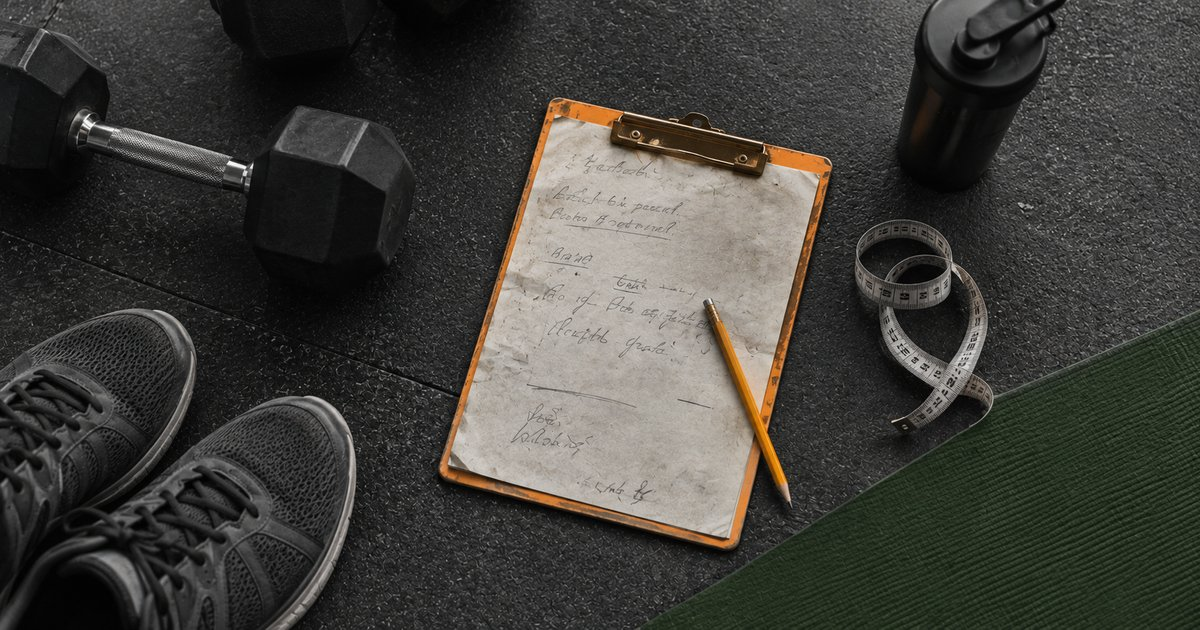
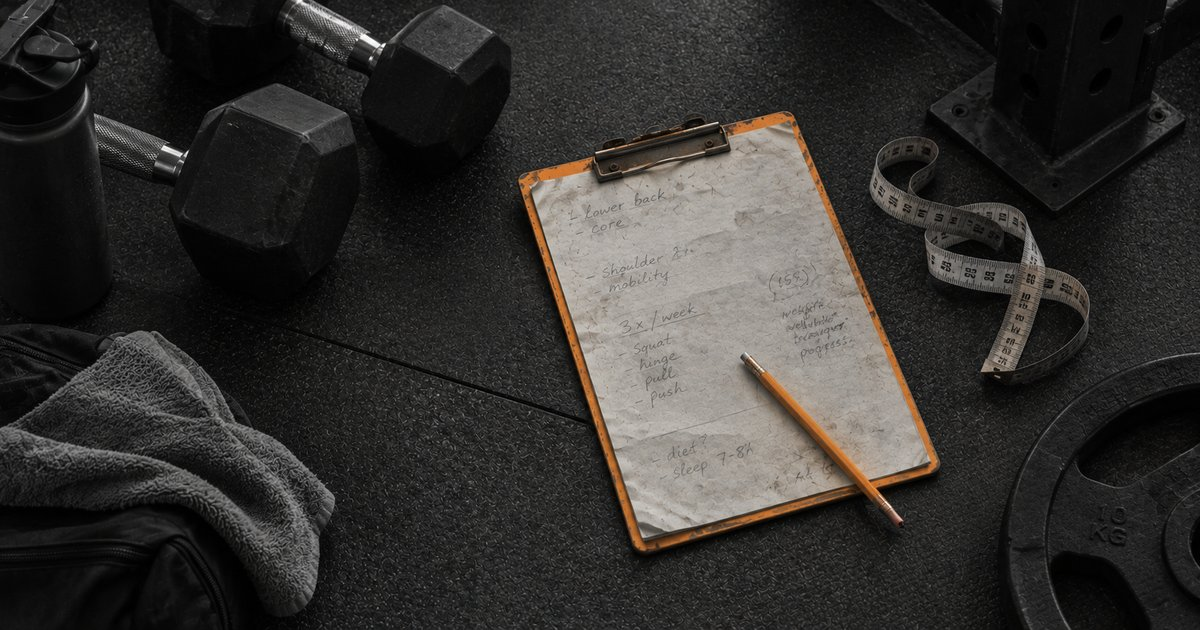
Update questionnaire OG preview to the trainer planning-station image.
Resize and export as progressive 1200×630 JPEG to match the social preview meta tags, and bump the cache-bust version.

diff --git a/questionnaire.html b/questionnaire.html
@@ -11,8 +11,8 @@
 <meta property="og:url" content="https://memtofit.memtoria.com/">
 <meta property="og:title" content="MemtoFit · Training Profile Questionnaire">
 <meta property="og:description" content="Fill in what you know. We'll build a gym plan that actually fits you.">
-<meta property="og:image" content="https://memtofit.memtoria.com/questionnaire-og.jpg?v=1">
-<meta property="og:image:secure_url" content="https://memtofit.memtoria.com/questionnaire-og.jpg?v=1">
+<meta property="og:image" content="https://memtofit.memtoria.com/questionnaire-og.jpg?v=2">
+<meta property="og:image:secure_url" content="https://memtofit.memtoria.com/questionnaire-og.jpg?v=2">
 <meta property="og:image:type" content="image/jpeg">
 <meta property="og:image:width" content="1200">
 <meta property="og:image:height" content="630">
@@ -20,7 +20,7 @@
 <meta name="twitter:card" content="summary_large_image">
 <meta name="twitter:title" content="MemtoFit · Training Profile Questionnaire">
 <meta name="twitter:description" content="Fill in what you know. We'll build a gym plan that actually fits you.">
-<meta name="twitter:image" content="https://memtofit.memtoria.com/questionnaire-og.jpg?v=1">
+<meta name="twitter:image" content="https://memtofit.memtoria.com/questionnaire-og.jpg?v=2">
 <style>
   :root {
     --raft-bg: #2C4A27;
